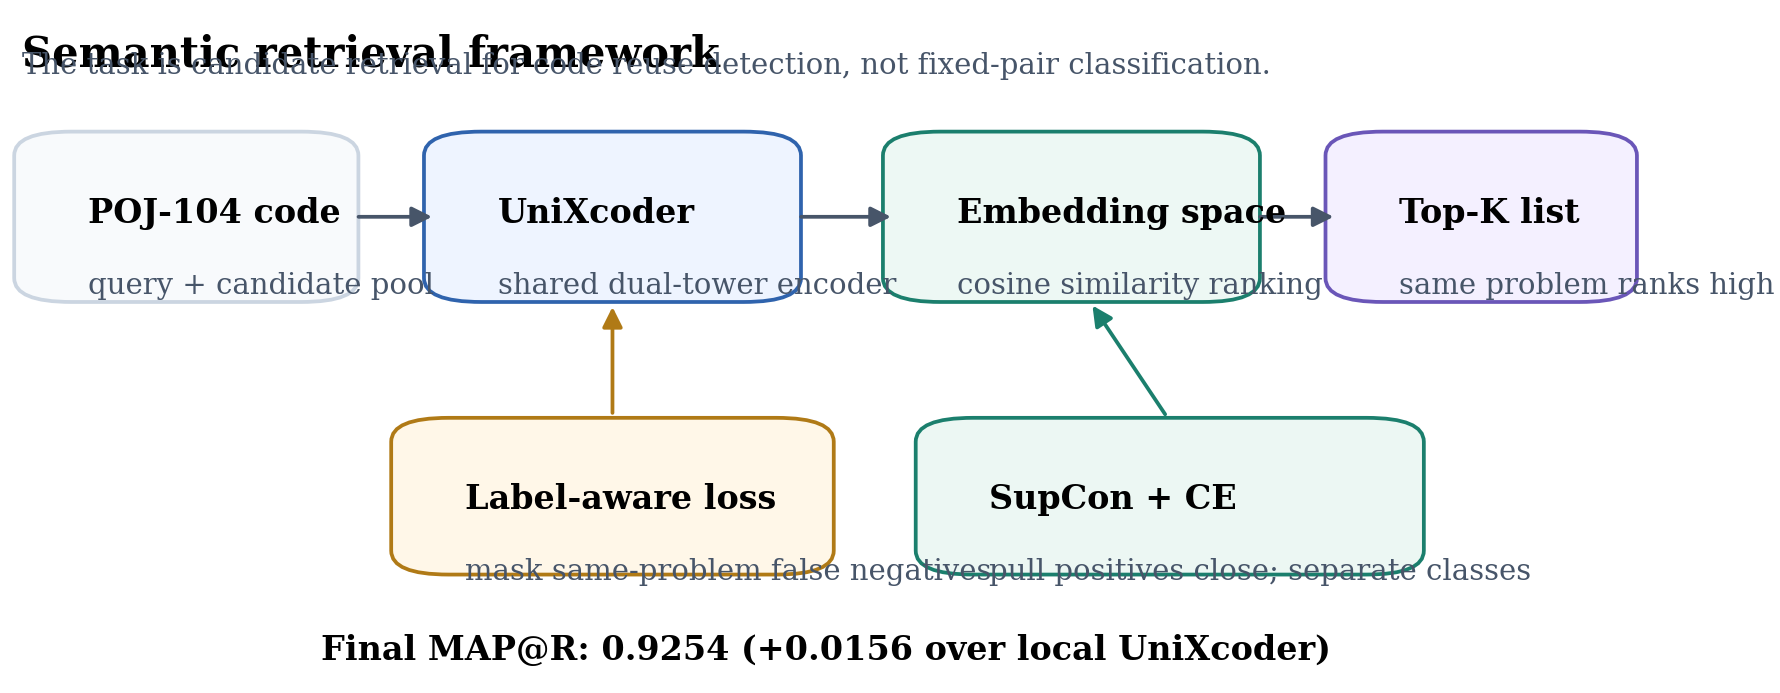
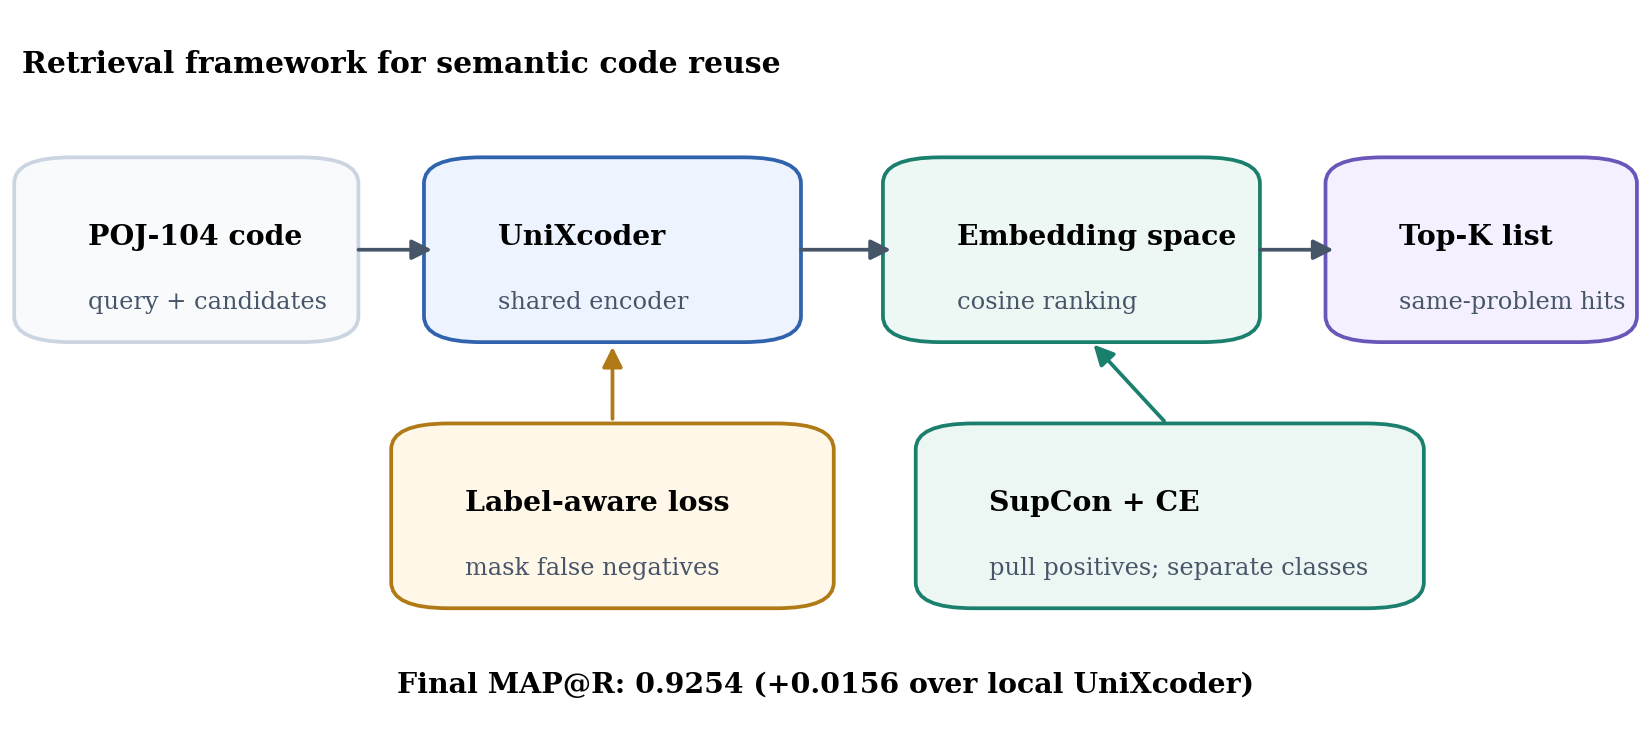
Fix paper figure text layout

diff --git a/scripts/make_paper_figures.py b/scripts/make_paper_figures.py
@@ -35,12 +35,12 @@ def set_cvpr_style() -> None:
         {
             "font.family": "serif",
             "font.serif": ["DejaVu Serif", "Times New Roman", "Times"],
-            "font.size": 7,
-            "axes.titlesize": 8,
-            "axes.labelsize": 8,
-            "xtick.labelsize": 7,
-            "ytick.labelsize": 7,
-            "legend.fontsize": 7,
+            "font.size": 6.5,
+            "axes.titlesize": 7.2,
+            "axes.labelsize": 7,
+            "xtick.labelsize": 6.5,
+            "ytick.labelsize": 6.5,
+            "legend.fontsize": 6.5,
             "figure.titlesize": 10,
             "axes.linewidth": 0.7,
             "xtick.major.width": 0.7,
@@ -126,7 +126,19 @@ def draw_main_results(rows: list[dict]) -> None:
     save_figure(fig, "fig1_main_results_cvpr")
 
 
-def add_box(ax: plt.Axes, xy: tuple[float, float], wh: tuple[float, float], title: str, body: str, fc: str, ec: str) -> None:
+def add_box(
+    ax: plt.Axes,
+    xy: tuple[float, float],
+    wh: tuple[float, float],
+    title: str,
+    body: str,
+    fc: str,
+    ec: str,
+    title_size: float = 6.8,
+    body_size: float = 5.8,
+    title_y: float = 0.075,
+    body_y: float = 0.165,
+) -> None:
     x, y = xy
     w, h = wh
     box = FancyBboxPatch(
@@ -139,8 +151,8 @@ def add_box(ax: plt.Axes, xy: tuple[float, float], wh: tuple[float, float], titl
         facecolor=fc,
     )
     ax.add_patch(box)
-    ax.text(x + 0.03, y + h - 0.08, title, fontweight="bold", fontsize=8, va="top")
-    ax.text(x + 0.03, y + h - 0.19, body, fontsize=7, va="top", color="#475569")
+    ax.text(x + 0.03, y + h - title_y, title, fontweight="bold", fontsize=title_size, va="top")
+    ax.text(x + 0.03, y + h - body_y, body, fontsize=body_size, va="top", color="#475569")
 
 
 def add_arrow(ax: plt.Axes, start: tuple[float, float], end: tuple[float, float], color: str = "#475569") -> None:
@@ -149,46 +161,45 @@ def add_arrow(ax: plt.Axes, start: tuple[float, float], end: tuple[float, float]
 
 
 def draw_method_framework() -> None:
-    fig, ax = plt.subplots(figsize=(7.05, 2.95))
+    fig, ax = plt.subplots(figsize=(7.05, 3.20))
     ax.set_xlim(0, 1)
     ax.set_ylim(0, 1)
     ax.axis("off")
 
-    add_box(ax, (0.02, 0.58), (0.18, 0.22), "POJ-104 code", "query + candidate pool", "#f8fafc", "#cbd5e1")
-    add_box(ax, (0.27, 0.58), (0.20, 0.22), "UniXcoder", "shared dual-tower encoder", "#eef4ff", "#2f63ad")
-    add_box(ax, (0.55, 0.58), (0.20, 0.22), "Embedding space", "cosine similarity ranking", "#edf8f4", "#1b7f6d")
-    add_box(ax, (0.82, 0.58), (0.16, 0.22), "Top-K list", "same problem ranks high", "#f4f0ff", "#6a56b8")
+    add_box(ax, (0.02, 0.56), (0.18, 0.22), "POJ-104 code", "query + candidates", "#f8fafc", "#cbd5e1")
+    add_box(ax, (0.27, 0.56), (0.20, 0.22), "UniXcoder", "shared encoder", "#eef4ff", "#2f63ad")
+    add_box(ax, (0.55, 0.56), (0.20, 0.22), "Embedding space", "cosine ranking", "#edf8f4", "#1b7f6d")
+    add_box(ax, (0.82, 0.56), (0.16, 0.22), "Top-K list", "same-problem hits", "#f4f0ff", "#6a56b8")
 
-    add_arrow(ax, (0.21, 0.69), (0.265, 0.69))
-    add_arrow(ax, (0.48, 0.69), (0.545, 0.69))
-    add_arrow(ax, (0.76, 0.69), (0.815, 0.69))
+    add_arrow(ax, (0.21, 0.67), (0.265, 0.67))
+    add_arrow(ax, (0.48, 0.67), (0.545, 0.67))
+    add_arrow(ax, (0.76, 0.67), (0.815, 0.67))
 
-    add_box(ax, (0.25, 0.18), (0.24, 0.20), "Label-aware loss", "mask same-problem false negatives", "#fff7e8", "#b07a16")
-    add_box(ax, (0.57, 0.18), (0.28, 0.20), "SupCon + CE", "pull positives close; separate classes", "#ecf7f3", "#1b7f6d")
-    add_arrow(ax, (0.37, 0.39), (0.37, 0.57), "#b07a16")
-    add_arrow(ax, (0.71, 0.39), (0.66, 0.57), "#1b7f6d")
+    add_box(ax, (0.25, 0.20), (0.24, 0.22), "Label-aware loss", "mask false negatives", "#fff7e8", "#b07a16")
+    add_box(ax, (0.57, 0.20), (0.28, 0.22), "SupCon + CE", "pull positives; separate classes", "#ecf7f3", "#1b7f6d")
+    add_arrow(ax, (0.37, 0.43), (0.37, 0.55), "#b07a16")
+    add_arrow(ax, (0.71, 0.43), (0.66, 0.55), "#1b7f6d")
 
-    ax.text(0.01, 0.96, "Semantic retrieval framework", fontsize=10, fontweight="bold", va="top")
-    ax.text(0.01, 0.90, "The task is candidate retrieval for code reuse detection, not fixed-pair classification.", fontsize=7, color="#475569")
-    ax.text(0.50, 0.04, "Final MAP@R: 0.9254 (+0.0156 over local UniXcoder)", fontsize=8, fontweight="bold", ha="center")
+    ax.text(0.01, 0.94, "Retrieval framework for semantic code reuse", fontsize=7.2, fontweight="bold", va="top")
+    ax.text(0.50, 0.07, "Final MAP@R: 0.9254 (+0.0156 over local UniXcoder)", fontsize=6.8, fontweight="bold", ha="center")
     save_figure(fig, "fig2_method_framework_cvpr")
 
 
 def draw_error_repair() -> None:
-    fig, axes = plt.subplots(1, 2, figsize=(7.05, 2.75), gridspec_kw={"width_ratios": [1.08, 1.0], "wspace": 0.30})
+    fig, axes = plt.subplots(1, 2, figsize=(7.05, 3.05), gridspec_kw={"width_ratios": [1.12, 1.0], "wspace": 0.32}, constrained_layout=True)
 
     ax = axes[0]
     ax.axis("off")
     ax.set_xlim(0, 1)
     ax.set_ylim(0, 1)
-    add_box(ax, (0.03, 0.58), (0.32, 0.20), "Query", "test_7943 / problem_96", "#f8fafc", "#cbd5e1")
-    add_box(ax, (0.56, 0.70), (0.39, 0.18), "Baseline top-1", "test_5720 / problem_92", "#fff1ed", "#b64e43")
-    add_box(ax, (0.56, 0.32), (0.39, 0.18), "SupCon CE top-1", "test_7600 / problem_96", "#edf8f4", "#1b7f6d")
-    add_arrow(ax, (0.36, 0.68), (0.55, 0.78), "#b64e43")
-    add_arrow(ax, (0.36, 0.64), (0.55, 0.42), "#1b7f6d")
-    ax.text(0.03, 0.96, "(a) Repaired retrieval neighborhood", fontweight="bold", fontsize=9, va="top")
-    ax.text(0.56, 0.63, "wrong problem", color="#b64e43", fontsize=7, fontweight="bold")
-    ax.text(0.56, 0.25, "same problem", color="#1b7f6d", fontsize=7, fontweight="bold")
+    add_box(ax, (0.03, 0.56), (0.32, 0.20), "Query", "test_7943 / P96", "#f8fafc", "#cbd5e1")
+    add_box(ax, (0.57, 0.70), (0.38, 0.19), "Baseline top-1", "test_5720 / P92", "#fff1ed", "#b64e43")
+    add_box(ax, (0.57, 0.30), (0.38, 0.19), "SupCon CE top-1", "test_7600 / P96", "#edf8f4", "#1b7f6d")
+    add_arrow(ax, (0.36, 0.66), (0.56, 0.78), "#b64e43")
+    add_arrow(ax, (0.36, 0.61), (0.56, 0.40), "#1b7f6d")
+    ax.text(0.03, 0.96, "(a) Repaired retrieval neighborhood", fontweight="bold", fontsize=7.2, va="top")
+    ax.text(0.59, 0.62, "wrong problem", color="#b64e43", fontsize=5.8, fontweight="bold")
+    ax.text(0.59, 0.22, "same problem", color="#1b7f6d", fontsize=5.8, fontweight="bold")
 
     ax = axes[1]
     labels = ["UniXcoder", "SupCon CE"]
@@ -196,15 +207,15 @@ def draw_error_repair() -> None:
     colors = ["#b64e43", "#1b7f6d"]
     ax.bar(labels, ranks, color=colors, width=0.55)
     ax.set_yscale("log")
+    ax.set_ylim(0.7, 2400)
     ax.set_ylabel("First positive rank (log)")
     ax.set_title("(b) Positive candidate moves to rank 1", loc="left", fontweight="bold")
     ax.grid(axis="y", color="#d9dfe6", linewidth=0.5, alpha=0.8)
     ax.spines["top"].set_visible(False)
     ax.spines["right"].set_visible(False)
     for i, value in enumerate(ranks):
-        ax.text(i, value * 1.25, str(value), ha="center", va="bottom", fontsize=8, fontweight="bold")
+        ax.text(i, value * (1.12 if value > 10 else 1.28), str(value), ha="center", va="bottom", fontsize=7, fontweight="bold")
 
-    fig.suptitle("Error analysis aligned with the proposed improvement", x=0.01, y=1.02, ha="left", fontweight="bold")
     save_figure(fig, "fig3_error_repair_cvpr")
 
 